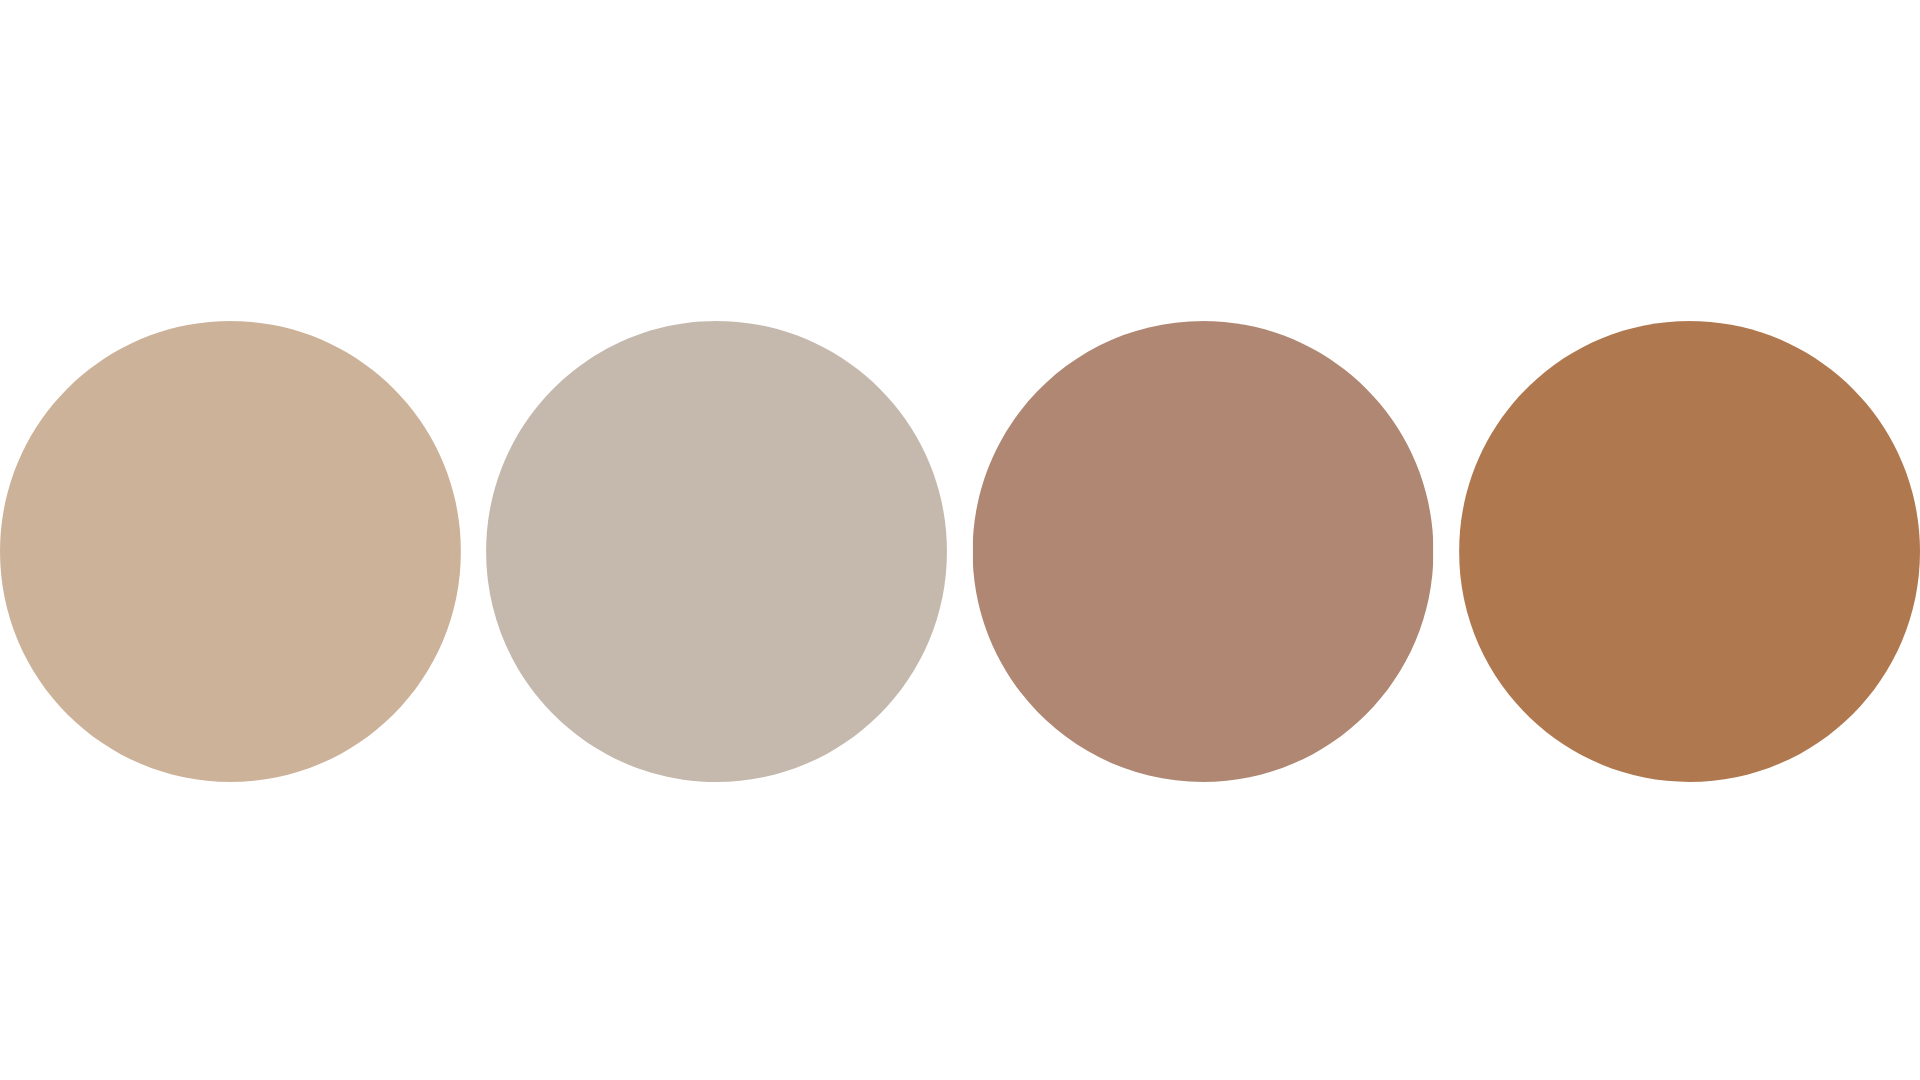
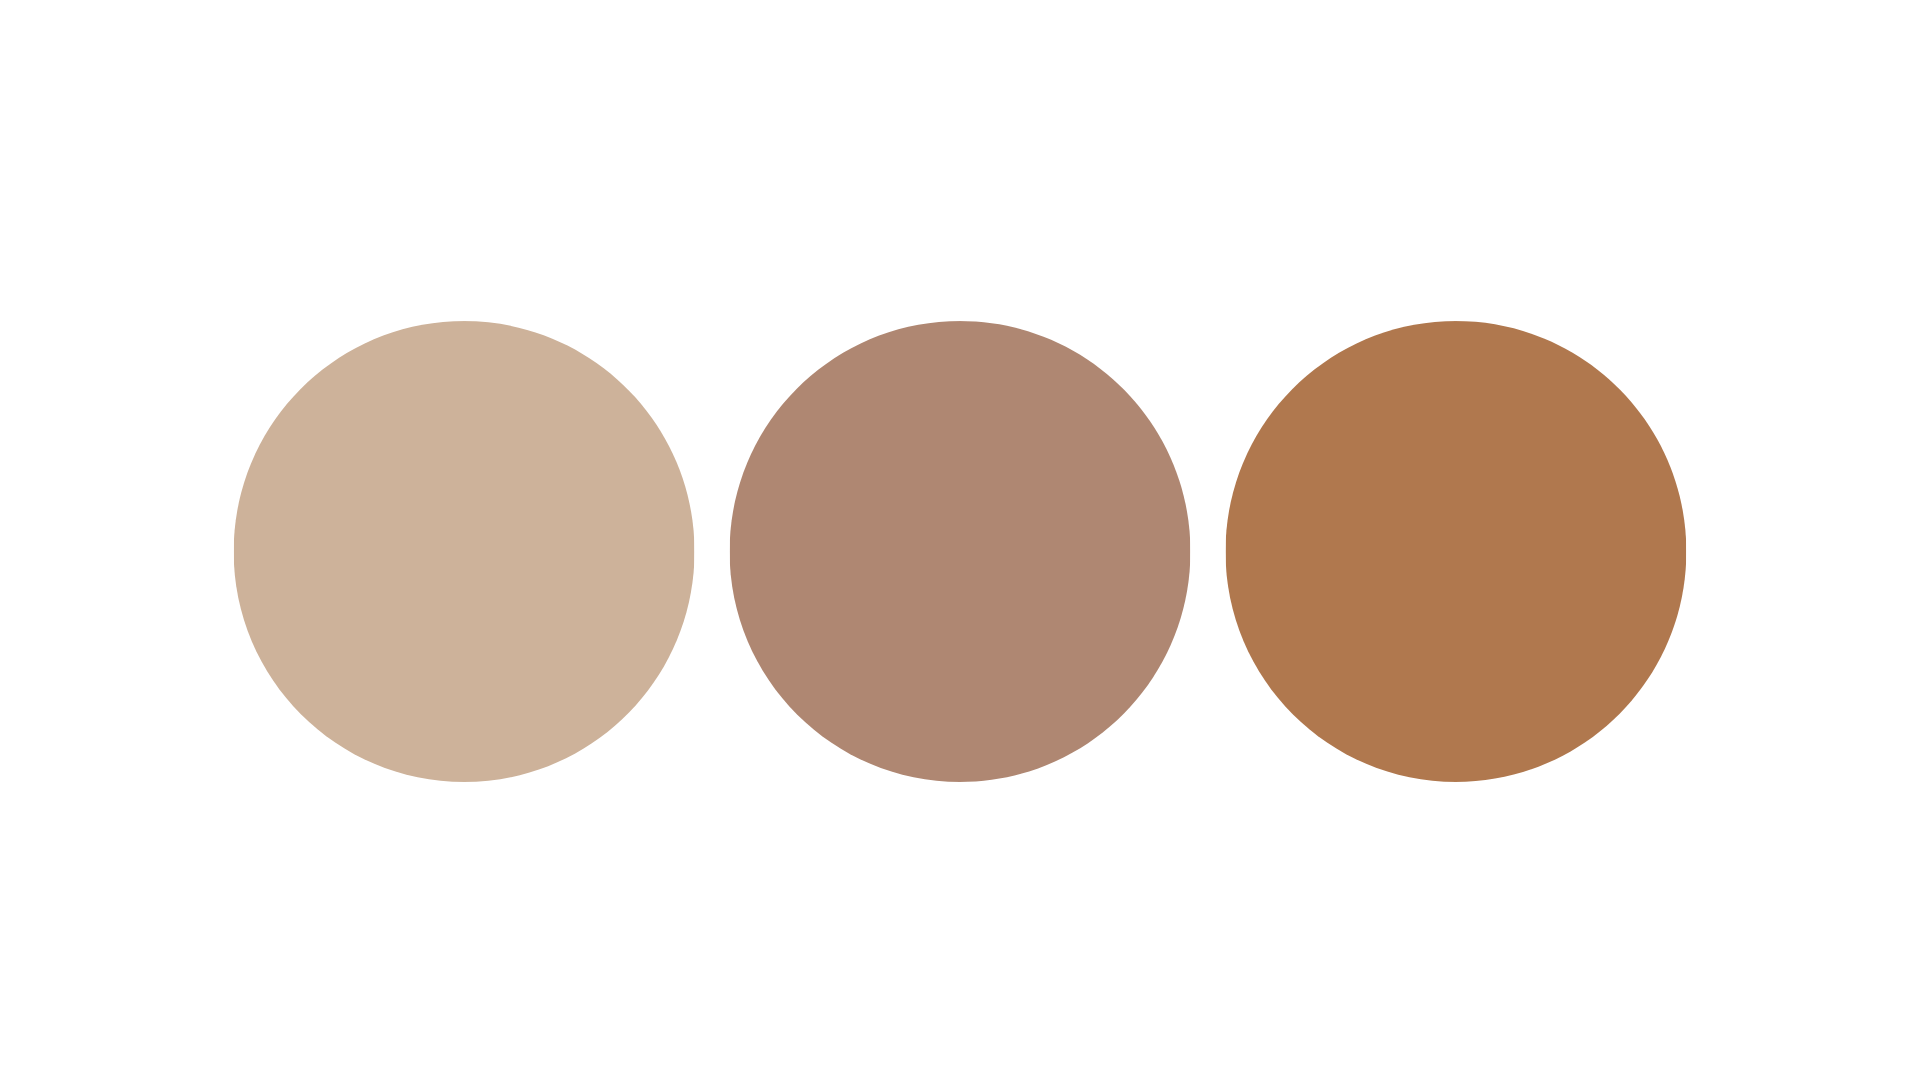
final1

Changed region(s): [[0.0, 0.275, 1.0, 0.7333]]

diff --git a/index.html b/index.html
@@ -225,58 +225,141 @@
                     special day</p>
             </div>
 
-            <div class="grid grid-cols-1 md:grid-cols-3 gap-8">
+            <div class="grid grid-cols-1 md:grid-cols-2 gap-8">
                 <!-- Ceremony Card -->
-                <div class="relative overflow-hidden bg-white/70 backdrop-blur-sm border border-beige-200 hover:border-gold transition-all duration-500 shadow-sm flex flex-col min-h-[400px]"
+                <div onclick="openImageModal('ceremony')"
+                    class="cursor-pointer relative overflow-hidden bg-white/70 backdrop-blur-sm border border-beige-200 hover:border-gold transition-all duration-500 shadow-sm flex flex-col min-h-[400px]"
                     data-aos="zoom-in" data-aos-delay="100">
                     <img src="assets/ceremony.png" alt="Ceremony Background"
                         class="absolute inset-0 w-full h-full object-cover opacity-100 transition-transform duration-700 hover:scale-110 pointer-events-none">
 
+                    <!-- Click Me Sticker -->
+                    <div
+                        class="absolute top-4 right-4 z-30 bg-white/95 backdrop-blur-sm border border-beige-200 text-gold text-[10px] font-bold uppercase tracking-widest px-4 py-2 rounded-full flex items-center gap-2 shadow-xl animate-bounce pointer-events-none">
+                        <span>Click Me</span>
+                        <svg class="w-3.5 h-3.5" fill="none" stroke="currentColor" viewBox="0 0 24 24">
+                            <path stroke-linecap="round" stroke-linejoin="round" stroke-width="2"
+                                d="M15 15l-2 5L9 9l11 4-5 2zm0 0l5 5"></path>
+                        </svg>
+                    </div>
+
                     <div
                         class="absolute bottom-0 left-0 w-full bg-white/95 backdrop-blur-md p-6 border-t border-beige-200 z-20">
                         <div class="flex justify-between items-center mb-3">
-                            <h3 class="font-playfair text-xl text-dark">Ceremony</h3>
-                            <p class="text-gold text-[10px] font-bold tracking-widest uppercase mb-1">1:00 PM</p>
+                            <h3 class="font-playfair text-2xl text-dark">Ceremony</h3>
+                            <p class="text-gold text-[11px] font-bold tracking-widest uppercase mb-1">1:00 PM</p>
                         </div>
                         <p
-                            class="text-dark text-[11px] leading-snug font-bold tracking-wide uppercase pt-3 border-t border-beige-100">
+                            class="text-dark text-xs leading-snug font-bold tracking-wide uppercase pt-3 border-t border-beige-100">
                             Jesus Saves Fundamental Baptist Church<br>
-                            <span class="text-[10px] font-medium opacity-70">Soldier's Hill Zone 10, Bulua, CDO</span>
+                            <span class="text-[10px] font-medium opacity-70 mt-1 block">Soldier's Hill Zone 10, Bulua,
+                                CDO</span>
                         </p>
                     </div>
                 </div>
 
                 <!-- Reception Card -->
-                <div class="relative overflow-hidden bg-white/70 backdrop-blur-sm border border-beige-200 hover:border-gold transition-all duration-500 shadow-sm flex flex-col min-h-[400px]"
+                <div onclick="openImageModal('reception')"
+                    class="cursor-pointer relative overflow-hidden bg-white/70 backdrop-blur-sm border border-beige-200 hover:border-gold transition-all duration-500 shadow-sm flex flex-col min-h-[600px]"
                     data-aos="zoom-in" data-aos-delay="200">
-                    <img src="assets/reception.png" alt="Reception Background"
+                    <img src="assets/reception.jpg" alt="Reception Background"
                         class="absolute inset-0 w-full h-full object-cover opacity-100 transition-transform duration-700 hover:scale-110 pointer-events-none">
+
+                    <!-- Click Me Sticker -->
+                    <div
+                        class="absolute top-4 right-4 z-30 bg-white/95 backdrop-blur-sm border border-beige-200 text-gold text-[10px] font-bold uppercase tracking-widest px-4 py-2 rounded-full flex items-center gap-2 shadow-xl animate-bounce pointer-events-none">
+                        <span>Click Me</span>
+                        <svg class="w-3.5 h-3.5" fill="none" stroke="currentColor" viewBox="0 0 24 24">
+                            <path stroke-linecap="round" stroke-linejoin="round" stroke-width="2"
+                                d="M15 15l-2 5L9 9l11 4-5 2zm0 0l5 5"></path>
+                        </svg>
+                    </div>
 
                     <div
                         class="absolute bottom-0 left-0 w-full bg-white/95 backdrop-blur-md p-6 border-t border-beige-200 z-20">
                         <div class="flex justify-between items-center mb-3">
-                            <h3 class="font-playfair text-xl text-dark">Reception</h3>
-                            <p class="text-gold text-[10px] font-bold tracking-widest uppercase mb-1">Celebration</p>
+                            <h3 class="font-playfair text-2xl text-dark">Reception</h3>
+                            <p class="text-gold text-[11px] font-bold tracking-widest uppercase mb-1">Celebration</p>
                         </div>
                         <p
-                            class="text-dark text-[11px] leading-snug font-bold tracking-wide uppercase pt-3 border-t border-beige-100">
+                            class="text-dark text-xs leading-snug font-bold tracking-wide uppercase pt-3 border-t border-beige-100">
                             Casa De Canitoan<br>
-                            <span class="text-[10px] font-medium opacity-70">Cagayan de Oro City</span>
+                            <span class="text-[10px] font-medium opacity-70 mt-1 block">Pagatpat Road/Macapagal Drive,
+                                Brgy. Canitoan, Cagayan de Oro City</span>
                         </p>
                     </div>
                 </div>
 
-                <div class="p-10 bg-white/60 backdrop-blur-sm border border-beige-200 hover:border-gold transition-colors duration-500 shadow-sm"
-                    data-aos="zoom-in" data-aos-delay="300">
-                    <h3 class="font-playfair text-2xl mb-4">Dress Code</h3>
-                    <p class="text-gold text-sm font-semibold mb-6">Semi-Formal</p>
-                    <img src="assets/color.png" alt="Color Palette"
-                        class="mx-auto w-full max-w-[235px] h-39 object-cover opacity-95 rounded-sm shadow-sm mb-6">
-                    <p class="text-dark text-[11px] mb-2 italic leading-relaxed opacity-70 px-4">We kindly request our
-                        guests to wear the following colors on our special day.
-                    </p>
-                    <p class="text-dark leading-relaxed mb-6 capitalize px-4 font-bold">nude, beige, brown</p>
+            </div>
+
+            <div class="mt-28 mb-10" data-aos="fade-up">
+                <h2 class="font-playfair text-4xl md:text-5xl mb-6 relative inline-block">
+                    Dress Code
+                    <span class="absolute -bottom-4 left-1/2 -translate-x-1/2 w-16 h-0.5 bg-gold"></span>
+                </h2>
+            </div>
+
+            <div class="grid grid-cols-1 lg:grid-cols-2 gap-8 items-stretch w-full mb-8">
+                <!-- Principal Sponsors Container -->
+                <div class="w-full p-8 md:p-10 bg-white/60 backdrop-blur-sm border border-beige-200 hover:border-gold transition-colors duration-500 shadow-sm flex flex-col h-full"
+                    data-aos="zoom-in" data-aos-delay="200">
+                    <h3 class="font-playfair text-3xl mb-6">Principal Sponsors</h3>
+
+                    <div class="mb-auto flex items-center justify-center p-2">
+                        <img src="assets/principal_sponsors.png" alt="Principal Sponsors Dress Code"
+                            class="w-full max-w-[260px] md:max-w-[280px] h-auto max-h-48 md:max-h-56 object-contain rounded-lg">
+                    </div>
+
+                    <div class="text-center px-2 md:px-6 mt-8">
+                        <p class="text-dark text-sm md:text-[15px] leading-relaxed font-bold mb-3">
+                            Ninongs: Barong and Slacks
+                        </p>
+                        <p class="text-dark text-sm md:text-[15px] leading-relaxed font-bold">
+                            Ninangs: Beige/Light Brown Dress
+                        </p>
+                    </div>
                 </div>
+
+                <!-- Guests Container -->
+                <div class="w-full p-8 md:p-10 bg-white/60 backdrop-blur-sm border border-beige-200 hover:border-gold transition-colors duration-500 shadow-sm flex flex-col h-full"
+                    data-aos="zoom-in" data-aos-delay="300">
+                    <h3 class="font-playfair text-3xl mb-6">Guests</h3>
+
+                    <div class="grid grid-cols-1 md:grid-cols-3 gap-4 mb-auto">
+                        <img src="assets/dresscode1.png" alt="Dress Code Example 1"
+                            class="w-full h-auto object-cover rounded-lg">
+                        <img src="assets/dresscode2.png" alt="Dress Code Example 2"
+                            class="w-full h-auto object-cover rounded-lg">
+                        <img src="assets/dresscode3.png" alt="Dress Code Example 3"
+                            class="w-full h-auto object-cover rounded-lg">
+                    </div>
+
+                    <div class="text-center px-2 md:px-6 mt-8">
+                        <p class="text-dark text-sm md:text-[15px] leading-relaxed font-bold mb-3">
+                            Ladies: Formal/ Semi-Formal Dress
+                        </p>
+                        <p class="text-dark text-sm md:text-[15px] leading-relaxed font-bold">
+                            Gentlemen: Long Sleeved Polo, Slacks, Pants
+                        </p>
+                    </div>
+                </div>
+            </div>
+
+            <!-- Notice / Rules Container Below -->
+            <div class="w-full p-8 md:p-10 bg-white/60 backdrop-blur-sm border border-beige-200 hover:border-gold transition-colors duration-500 shadow-sm text-center"
+                data-aos="fade-up" data-aos-delay="400">
+
+                <p class="text-dark text-[14px] md:text-base italic leading-relaxed opacity-80 mb-6 font-bold">
+                    nude, brown and beige shade will do.
+                </p>
+
+                <img src="assets/color.png" alt="Color Palette"
+                    class="mx-auto w-full max-w-[260px] md:max-w-[320px] h-auto object-cover opacity-95 rounded-sm shadow-sm mb-6">
+
+                <p
+                    class="text-red-800 font-bold text-[11px] md:text-[13px] uppercase tracking-widest border border-red-800/20 bg-red-50 py-3 md:py-4 px-4 md:px-6 rounded-md inline-block">
+                    Avoid pure white, black, slippers, shorts and t-shirts.
+                </p>
             </div>
 
             <div class="mt-20 max-w-2xl mx-auto p-12 border border-beige-200 bg-white/40 backdrop-blur-md"
@@ -343,14 +426,37 @@
                 </div>
             </div>
 
-            <!-- Guest Policy Section -->
+
+
+            <!-- Snap and Share Section -->
             <div class="mt-10 max-w-2xl mx-auto p-12 border border-beige-200 bg-white/40 backdrop-blur-md text-center"
                 data-aos="fade-up">
-                <h3 class="font-playfair text-2xl mb-6 italic text-gold">Can I bring someone with me?</h3>
-                <p class="text-dark text-[13px] leading-relaxed px-6 font-medium">
-                    To ensure everyone’s comfort, please take note of the number of seats reserved for you. <br>
-                    <span class="opacity-70 mt-4 block">We kindly request that only invited guests attend due to limited
-                        space.</span>
+                <div class="flex justify-center mb-6">
+                    <svg class="w-16 h-16 text-dark" viewBox="0 0 24 24" fill="none" stroke="currentColor"
+                        stroke-width="2" stroke-linecap="round" stroke-linejoin="round">
+                        <rect x="3" y="7" width="18" height="13" rx="2" ry="2"></rect>
+                        <path d="M16 7V5a2 2 0 0 0-2-2H10a2 2 0 0 0-2 2v2"></path>
+                        <circle cx="12" cy="13" r="4"></circle>
+                        <circle cx="18" cy="10" r="1.5" fill="currentColor" stroke="none"></circle>
+                    </svg>
+                </div>
+                <h3 class="font-playfair text-4xl mb-8">Snap <span class="italic font-light">and</span> Share</h3>
+
+                <p class="text-dark text-[15px] leading-relaxed mb-6 px-4 font-medium">
+                    Be part of our special day by capturing moments filled with love, laughter, and joy.
+                </p>
+                <p class="text-dark text-[15px] leading-relaxed mb-6 px-4 font-medium">
+                    Feel free to take photos and share them with us—every candid and smile matters.
+                </p>
+                <p class="text-dark text-[15px] leading-relaxed mb-6 px-4 font-medium">
+                    Don’t forget to tag us and use our wedding hashtag as we create memories together.
+                </p>
+                <p class="text-dark text-[15px] leading-relaxed mb-10 px-4 font-medium">
+                    We’re excited to see your beautiful snaps!
+                </p>
+
+                <p class="font-montserrat text-2xl font-black tracking-wide text-dark">
+                    #WhenNeilMetAlmieh
                 </p>
             </div>
 
@@ -375,6 +481,17 @@
                     </div>
                 </div>
             </div>
+
+            <!-- Guest Policy Section -->
+            <div class="mt-10 max-w-2xl mx-auto p-12 border border-beige-200 bg-white/40 backdrop-blur-md text-center"
+                data-aos="fade-up">
+                <h3 class="font-playfair text-2xl mb-6 italic text-gold">Can I bring someone with me?</h3>
+                <p class="text-dark text-[13px] leading-relaxed px-6 font-medium">
+                    To ensure everyone’s comfort, please take note of the number of seats reserved for you. <br>
+                    <span class="opacity-70 mt-4 block">We kindly request that only invited guests attend due to limited
+                        space.</span>
+                </p>
+            </div>
         </div>
     </section>
 
@@ -385,7 +502,7 @@
                 See You There?
                 <span class="absolute -bottom-4 left-1/2 -translate-x-1/2 w-16 h-0.5 bg-gold"></span>
             </h2>
-            <p class="mt-8 text-light mb-12 italic">Kindly respond by May 15, 2026.</p>
+            <p class="mt-8 text-light mb-12 italic">Kindly respond by May 18, 2026.</p>
 
             <form id="rsvp-form" class="text-left space-y-6">
                 <div>
@@ -681,6 +798,85 @@
             </div>
         </div>
     </div>
+
+    <!-- Image Modal -->
+    <div id="imageModal"
+        class="fixed inset-0 z-[100] hidden flex-col items-center justify-center bg-black/90 backdrop-blur-md p-4 md:p-6 cursor-pointer"
+        onclick="closeImageModal()">
+        <button onclick="closeImageModal()"
+            class="absolute top-4 right-4 md:top-6 md:right-6 text-white/50 hover:text-white z-20 transition-colors">
+            <svg class="w-10 h-10" fill="none" stroke="currentColor" viewBox="0 0 24 24">
+                <path stroke-linecap="round" stroke-linejoin="round" stroke-width="2" d="M6 18L18 6M6 6l12 12"></path>
+            </svg>
+        </button>
+        <div class="relative max-w-6xl w-full flex items-center justify-center cursor-auto h-[90vh] md:h-[75vh]"
+            onclick="event.stopPropagation()">
+
+            <div class="bg-white shadow-2xl flex flex-col md:flex-row w-full rounded-2xl overflow-hidden h-full">
+                <!-- Image Section -->
+                <div class="relative w-full md:w-[60%] flex justify-center items-center bg-white shrink-0 p-4 md:p-8">
+                    <img id="modalImage" src="" alt="Full Image" class="w-full h-full object-contain">
+                </div>
+
+                <!-- Info Section (Right side) -->
+                <div
+                    class="w-full md:w-[40%] bg-[#faf9f6] p-8 md:p-12 flex flex-col justify-center border-t md:border-t-0 md:border-l border-beige-200 z-20 shrink-0 overflow-y-auto">
+                    <div class="mb-6">
+                        <h3 id="modalTitle" class="font-playfair text-4xl text-dark mb-2"></h3>
+                        <p id="modalTime" class="text-gold text-sm font-bold tracking-widest uppercase"></p>
+                    </div>
+                    <p id="modalAddress"
+                        class="text-dark text-sm leading-relaxed font-bold tracking-wide uppercase pt-6 border-t border-beige-200">
+                    </p>
+
+                    <!-- Google Maps Link Button -->
+                    <a id="modalMapLink" href="#" target="_blank"
+                        class="inline-block mt-8 py-4 px-6 bg-dark text-white uppercase tracking-[0.2em] text-[10px] md:text-xs font-bold hover:bg-gold transition-colors text-center w-full shadow-md rounded-sm">
+                        View on Google Maps
+                    </a>
+                </div>
+            </div>
+
+        </div>
+    </div>
+
+    <script>
+        const imageModalData = {
+            'ceremony': {
+                imgSrc: 'assets/ceremony.png',
+                title: 'Ceremony',
+                time: '1:00 PM',
+                address: 'Jesus Saves Fundamental Baptist Church<br><span class="text-[10px] md:text-xs font-medium opacity-70 block mt-2">Soldier\'s Hill Zone 10, Bulua, CDO</span>',
+                mapLink: 'https://maps.app.goo.gl/8tTAqjjSBDoj6uG77'
+            },
+            'reception': {
+                imgSrc: 'assets/reception.jpg',
+                title: 'Reception',
+                time: 'Celebration',
+                address: 'Casa De Canitoan<br><span class="text-[10px] md:text-xs font-medium opacity-70 block mt-2">Cagayan de Oro City</span>',
+                mapLink: 'https://maps.app.goo.gl/wFyJPrLzZVGHpcNu9'
+            }
+        };
+
+        function openImageModal(key) {
+            const data = imageModalData[key];
+            if (data) {
+                document.getElementById('modalImage').src = data.imgSrc;
+                document.getElementById('modalTitle').innerText = data.title;
+                document.getElementById('modalTime').innerText = data.time;
+                document.getElementById('modalAddress').innerHTML = data.address;
+                document.getElementById('modalMapLink').href = data.mapLink;
+
+                document.getElementById('imageModal').classList.remove('hidden');
+                document.getElementById('imageModal').classList.add('flex');
+            }
+        }
+
+        function closeImageModal() {
+            document.getElementById('imageModal').classList.add('hidden');
+            document.getElementById('imageModal').classList.remove('flex');
+        }
+    </script>
 </body>
 
 </html>
